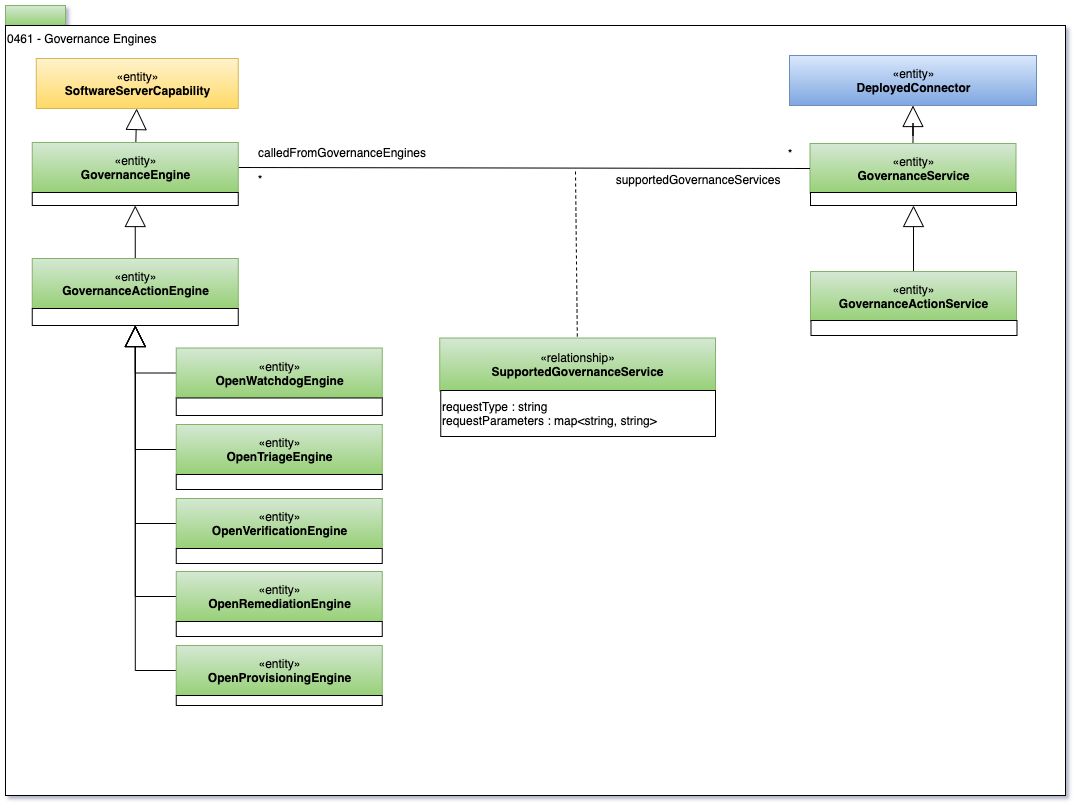
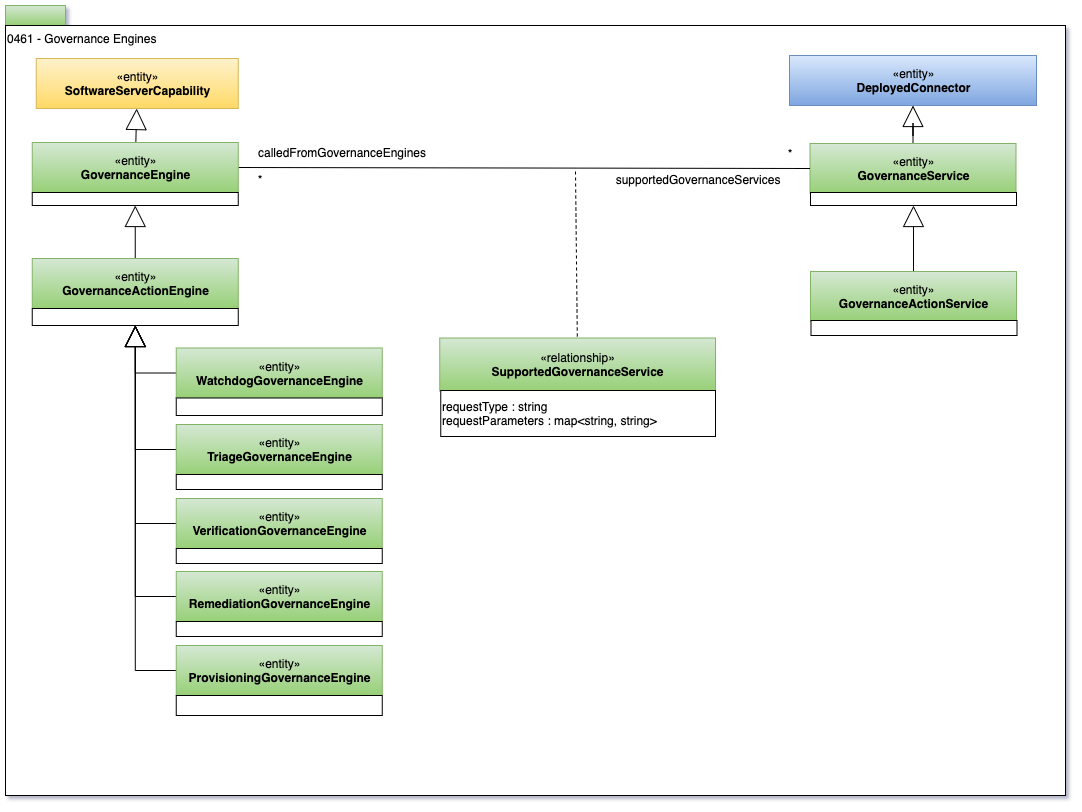
Consistent goverance action service names

diff --git a/open-metadata-resources/open-metadata-archives/open-metadata-types/src/main/java/org/odpi/openmetadata/opentypes/OpenMetadataTypesArchive.java b/open-metadata-resources/open-metadata-archives/open-metadata-types/src/main/java/org/odpi/openmetadata/opentypes/OpenMetadataTypesArchive.java
@@ -846,7 +846,7 @@ public class OpenMetadataTypesArchive
          * Build the Entity
          */
         final String guid            = "d650a159-9b6c-4be7-8d35-13aa51a124f7";
-        final String name            = "OpenWatchdogEngine";
+        final String name            = "WatchdogGovernanceEngine";
         final String description     = "A collection of related governance services that looks for patterns and values in the open metadata.";
         final String descriptionGUID = null;
         final String superTypeName   = "GovernanceActionEngine";
@@ -864,7 +864,7 @@ public class OpenMetadataTypesArchive
          * Build the Entity
          */
         final String guid            = "926feef0-1e05-4239-86f3-fbc8a84ee9a2";
-        final String name            = "OpenTriageEngine";
+        final String name            = "TriageGovernanceEngine";
         final String description     = "A collection of related governance services that makes decisions about whether to fix a situation.";
         final String descriptionGUID = null;
         final String superTypeName   = "GovernanceActionEngine";
@@ -882,7 +882,7 @@ public class OpenMetadataTypesArchive
          * Build the Entity
          */
         final String guid            = "67f8f68c-0975-4597-b852-d5e199deff75";
-        final String name            = "OpenVerificationEngine";
+        final String name            = "VerificationGovernanceEngine";
         final String description     = "A collection of related governance services that test if specific situations are true.";
         final String descriptionGUID = null;
         final String superTypeName   = "GovernanceActionEngine";
@@ -900,7 +900,7 @@ public class OpenMetadataTypesArchive
          * Build the Entity
          */
         final String guid            = "c590ea9e-9afc-4c31-99ca-61fba1ec8113";
-        final String name            = "OpenRemediationEngine";
+        final String name            = "RemediationGovernanceEngine";
         final String description     = "A collection of related governance services that makes changes to open metadata.";
         final String descriptionGUID = null;
         final String superTypeName   = "GovernanceActionEngine";
@@ -918,7 +918,7 @@ public class OpenMetadataTypesArchive
          * Build the Entity
          */
         final String guid            = "80232e52-b2a7-4c7c-b9e8-396001ec8b50";
-        final String name            = "OpenProvisioningEngine";
+        final String name            = "ProvisioningGovernanceEngine";
         final String description     = "A collection of related governance services that provisions resources into the digital landscape.";
         final String descriptionGUID = null;
         final String superTypeName   = "GovernanceActionEngine";
@@ -1630,13 +1630,20 @@ public class OpenMetadataTypesArchive
         List<TypeDefAttribute> properties = new ArrayList<>();
         TypeDefAttribute       property;
 
-        final String attribute1Name            = "originGovernanceEngine";
-        final String attribute1Description     = "The qualifiedName of the governance engine that caused the governance action to be created.";
+        final String attribute1Name            = "originGovernanceService";
+        final String attribute1Description     = "The qualifiedName of the governance service that caused the governance action to be created.";
         final String attribute1DescriptionGUID = null;
+        final String attribute2Name            = "originGovernanceEngine";
+        final String attribute2Description     = "The qualifiedName of the governance engine that caused the governance action to be created.";
+        final String attribute2DescriptionGUID = null;
 
         property = archiveHelper.getStringTypeDefAttribute(attribute1Name,
                                                            attribute1Description,
                                                            attribute1DescriptionGUID);
+        properties.add(property);
+        property = archiveHelper.getStringTypeDefAttribute(attribute2Name,
+                                                           attribute2Description,
+                                                           attribute2DescriptionGUID);
         properties.add(property);
 
         relationshipDef.setPropertiesDefinition(properties);
@@ -1701,14 +1708,20 @@ public class OpenMetadataTypesArchive
         List<TypeDefAttribute> properties = new ArrayList<>();
         TypeDefAttribute       property;
 
-        final String attribute1Name            = "originGovernanceEngine";
-        final String attribute1Description     = "The qualifiedName of the governance engine that caused the governance action to be created.";
+        final String attribute1Name            = "originGovernanceService";
+        final String attribute1Description     = "The qualifiedName of the governance service that caused the governance action to be created.";
         final String attribute1DescriptionGUID = null;
-
+        final String attribute2Name            = "originGovernanceEngine";
+        final String attribute2Description     = "The qualifiedName of the governance engine that caused the governance action to be created.";
+        final String attribute2DescriptionGUID = null;
 
         property = archiveHelper.getStringTypeDefAttribute(attribute1Name,
                                                            attribute1Description,
                                                            attribute1DescriptionGUID);
+        properties.add(property);
+        property = archiveHelper.getStringTypeDefAttribute(attribute2Name,
+                                                           attribute2Description,
+                                                           attribute2DescriptionGUID);
         properties.add(property);
 
         relationshipDef.setPropertiesDefinition(properties);

diff --git a/open-metadata-publication/website/roadmap/developer-platform-functional-detail.md b/open-metadata-publication/website/roadmap/developer-platform-functional-detail.md
@@ -63,16 +63,8 @@ The [engine services](../../../open-metadata-implementation/engine-services) are
 
 * [Asset Analysis](../../../open-metadata-implementation/engine-services/asset-analysis) for automated metadata discovery
   covering the content of an Asset's real-world counterpart.
-* [Action Scheduler](../../../open-metadata-implementation/engine-services/action-scheduler) maintains a calendar of
-  activities and ensures they are scheduled at the appropriate time.
-* [Asset Provisioning](../../../open-metadata-implementation/engine-services/asset-provisioning) invokes a specific
-  provisioning action for an asset.
-* [Metadata Watchdog](../../../open-metadata-implementation/engine-services/metadata-watchdog) for monitoring changes
-  to open metadata.
-* [Request Triage](../../../open-metadata-implementation/engine-services/request-triage) enables stewards to make
-  decisions on which actions to take.
-* [Issue Remediation](../../../open-metadata-implementation/engine-services/request-triage) 
-  runs actions to update metadata to repair a situation. 
+* [Governance Action](../../../open-metadata-implementation/engine-services/governance-action) for monitoring changes
+  to open metadata, making decisions on which actions to take and running actions that update metadata to repair a situation. 
 
 ### Integration Services
 
